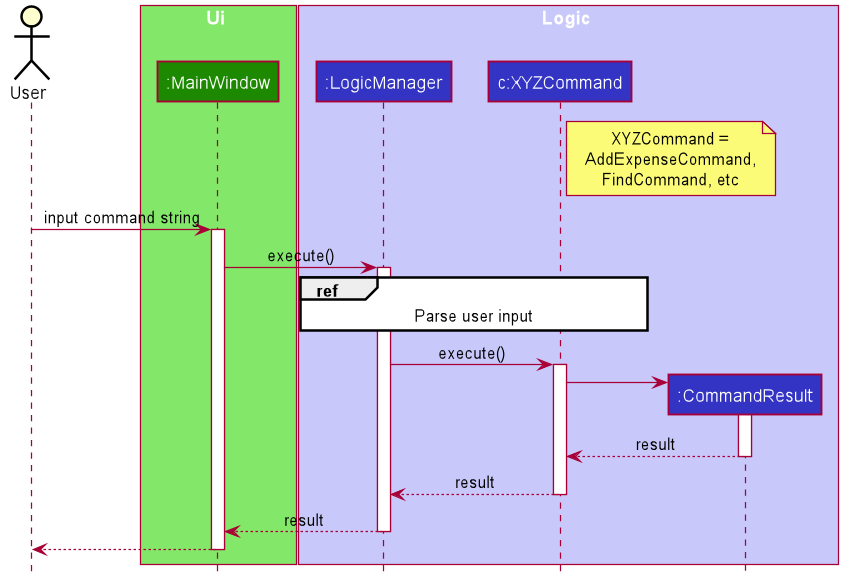
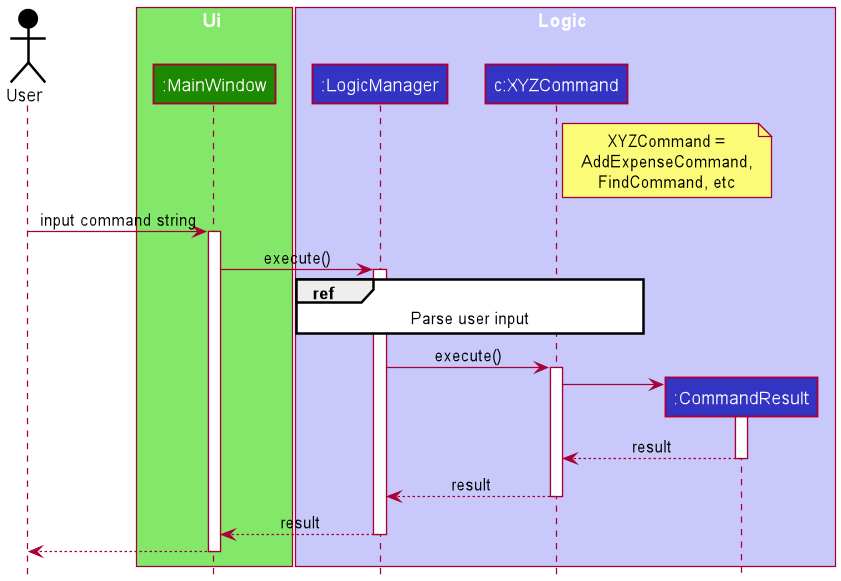
Update developer guide (#318)
* Standardise automatic tab switching messages

* Add list of commands which programmatically switch tabs

* Make actor black

* Update tab switching and model

* Add command history

* Add data integrity safeguards

* Add newline at EOF

* Update design considerations

* Update UiClassDiagram

diff --git a/docs/DeveloperGuide.md b/docs/DeveloperGuide.md
@@ -52,9 +52,21 @@ The sections below give more details of each component.
 **API** :
 [`Ui.java`](https://github.com/AY2021S1-CS2103T-W16-3/tp/blob/master/src/main/java/ay2021s1_cs2103_w16_3/finesse/ui/Ui.java)
 
-The UI consists of a `MainWindow` that is made up of parts e.g.`CommandBox`, `ResultDisplay`, `TransactionListPanel`, `StatusBarFooter` etc. All of these, including `MainWindow`, inherit from the abstract `UiPart` class.
+The UI consists of a `MainWindow` that is made up of parts e.g.`CommandBox`, `ResultDisplay`, `TransactionListPanel`, `OverviewTabPane` etc.
+All of these, including `MainWindow`, inherit from the abstract `UiPart` class.
 
-The `UI` component uses the JavaFx UI framework. The layout of these UI parts is defined in matching `.fxml` files that are in the `src/main/resources/view` folder. For example, the layout of [`MainWindow`](https://github.com/AY2021S1-CS2103T-W16-3/tp/blob/master/src/main/java/ay2021s1_cs2103_w16_3/finesse/ui/MainWindow.java) is specified in [`MainWindow.fxml`](https://github.com/AY2021S1-CS2103T-W16-3/tp/blob/master/src/main/resources/view/MainWindow.fxml).
+There are 5 tab panes which are contained within `MainWindow`:
+* `OverviewTabPane` - Displays an overview of the most recent transactions (both incomes and expenses) along with the savings goals.
+  * Contains `TransactionListPanel` and `SavingsGoalPanel`.
+* `IncomeTabPane` - Displays a list of incomes along with bookmark incomes.
+  * Contains `IncomePanel` and `BookmarkIncomePanel`.
+* `ExpenseTabPane` - Displays a list of expenses along with bookmark expenses.
+  * Contains `ExpensePanel` and `BookmarkExpensePanel`.
+* `AnalyticsTabPane` - Displays statistics.
+* `UserGuideTabPane` - Displays the user guide.
+
+The `UI` component uses the JavaFx UI framework. The layout of these UI parts is defined in matching `.fxml` files that are in the `src/main/resources/view` folder.
+For example, the layout of [`MainWindow`](https://github.com/AY2021S1-CS2103T-W16-3/tp/blob/master/src/main/java/ay2021s1_cs2103_w16_3/finesse/ui/MainWindow.java) is specified in [`MainWindow.fxml`](https://github.com/AY2021S1-CS2103T-W16-3/tp/blob/master/src/main/resources/view/MainWindow.fxml).
 
 The `UI` component:
 
@@ -90,6 +102,7 @@ Below is the Sequence Diagram for interactions within the `Logic` component for 
 The `Model`:
 
 * stores a `UserPref` object that represents the user’s preferences.
+* stores a `CommandHistory` object that keeps track of the 50 most recent commands entered.
 * stores the finance tracker data in the following components:
     * a `TransactionList` containing `Transaction`s.
     * a `BookmarkExpenseList` and `BookmarkIncomeList`, each containing `BookmarkTransaction`s.
@@ -175,6 +188,50 @@ Classes used by multiple components are in the `ay2021s1_cs2103_w16_3.finesse.co
 ## **Implementation**
 
 This section describes some noteworthy details on how certain features are implemented.
+
+### Tabs
+
+#### Programmatically switch selected tab
+
+##### Overview
+
+Fine$$e supports the ability to switch tabs programmatically.
+The following is a list of commands that utilise this ability:
+* `help` - Opens the [user guide](UserGuide.md).
+* `tab` - Switches to the tab corresponding to the index entered by the user.
+* `add-expense` - Adds an expense to the finance tracker and switches to the Expenses tab.
+* `ls-expense` - Shows a list of all expenses in the finance tracker by switching to the Expenses tab.
+* `add-income` - Adds an income to the finance tracker and switches to the Incomes tab.
+* `ls-income` - Shows a list of all incomes in the finance tracker by switching to the Incomes tab.
+* `add-bookmark-expense` - Adds a bookmark expense to the finance tracker and switches to the Expenses tab.
+* `add-bookmark-income` - Adds a bookmark income to the finance tracker and switches to the Incomes tab.
+
+##### Implementation of feature
+
+The ability to programmatically update the selected tab is implemented via `CommandResult`.
+Upon the successful execution of a command, a `CommandResult` is generated and passed back to `MainWindow`.
+This `CommandResult` contains the necessary information which the `MainWindow` needs to update the user interface, such as:
+* The feedback to be displayed to the user;
+* Whether to exit the application; and
+* Whether to programmatically switch to a different tab in the user interface.
+
+`MainWindow` will then select the tab specified in `CommandResult` as the active tab if applicable.
+
+##### Switching tabs
+
+The following sequence diagram shows how the `CommandResult` is created and returned upon the execution of any command.
+If the command in question is one of those listed above, the UI will switch to the specified tab.
+
+![Interactions inside the Logic Component when executing commands](images/CommandResultSequenceDiagram.png)
+
+##### Design considerations
+
+The alternative implementations considered, as well as the rationale behind our current implementation are as follows:
+
+| Alternative considered  | Current implementation and rationale   |
+| ----------- | -------------------------   |
+| Add a method in `MainWindow` which can be called to programmatically switch tabs in the user interface upon execution of the command. | Encapsulate the tab switching information within `CommandResult` to prevent tight coupling of `Logic` and `UI` components. |
+
 
 ### Transactions
 
@@ -352,26 +409,6 @@ The alternative implementations considered, as well as the rationale behind our 
 | Having separate command parsers for each tab in which the find command can be input, e.g. `FindTransactionCommandParser`, `FindExpenseCommandParser` and `FindIncomeCommandParser`, which return a `FindTransactionCommand`, a `FindExpenseCommand` and a `FindIncomeCommand` respectively. | Use only one `FindCommandParser`, which returns a `FindCommand` that is then further split into the respective `FindXYZCommand`. This is because the parsing for the input is similar same regardless of the tab the user is on.          |
 | Have `FindCommandParser` take in an `Index` corresponding to the parameter being searched. | Make the input of similar format to that of adding transactions, so that the input can be parsed into an `ArgumentMultimap` which is then used generate the relevant `Predicate`s. This is so that multiple search parameters can be employed in one command. |
 
-#### Programmatically switch selected tab
-
-Several of the expense/income-specific commands update the list of transactions displayed in a particular tab.
-Examples of these include the `add-expense` and `add-income` commands.
-As such, on the execution of such commands, the UI has to switch to the affected tab to display the result of the command execution.
-
-The ability to programmatically update the selected tab is implemented via `CommandResult`.
-Upon the successful execution of a command, a `CommandResult` is generated and passed back to `MainWindow`.
-This `CommandResult` contains the necessary information which the `MainWindow` needs to update the user interface, such as:
-* The feedback to be displayed to the user;
-* Whether to exit the application; and
-* Whether to programmatically switch to a different tab in the user interface.
-
-![Interactions inside the Logic Component when executing commands](images/CommandResultSequenceDiagram.png)
-
-Alternatives considered:
-
-* Add a method in `MainWindow` which can be called to programmatically switch tabs in the user interface upon execution of the command.
-  This was decided against as it would result in a much tighter coupling of `Logic` and `UI` components.
-
 ### Budgeting
 ##### Overview
 
@@ -384,7 +421,7 @@ The class diagram below depicts the components involved in the budget feature.
 
 ##### Implementation of feature
 
-The find transactions feature is implemented via `MonthlyBudget`, which contains the following fields:
+The budgeting feature is implemented via `MonthlyBudget`, which contains the following fields:
 
 * Two `ObjectProperty<Amount>` fields for `monthlyExpenseLimit` and `monthlySavingsGoal`.
 * Two `ObjectProperty<CalculatedAmount>` fields for `remainingBudget` and `currentSavings`.
@@ -493,6 +530,103 @@ When the constructor for `AnalyticsTabPane` is called:
 ##### Design considerations
 
 * An external library, [Data2Viz](https://data2viz.io/), was considered, rather than *JavaFX Charts*, but the former was rejected due to difficulty in implementation.
+
+### Command history
+
+##### Overview
+
+In order to fully replicate the Command Line Interface (CLI) experience, Fine$$e features the ability to navigate through the last 50 commands entered.
+This is done by pressing the ↑ or ↓ arrow keys on the keyboard while focused on the command input box.
+
+The class diagram below depicts the components involved in the command history feature.
+
+![Class diagram for command history feature](images/CommandHistoryClassDiagram.png)
+
+##### Implementation of feature
+
+The command history feature is implemented via `CommandHistory`.
+Whenever the user inputs a command, the command is added to the `CommandHistory` so as to be tracked.
+Note that for this section on the command history, all mentions of 'command' refer to the user input, and not the various `Command`s present in the codebase.
+
+`CommandHistory` is backed by an `EvictingStack`, a data structure that works similarly to a normal Last In First Out (LIFO) stack.
+However, when the `EvictingStack` is full, the bottom-most element of the stack is removed (or in other words, evicted).
+This behaviour is achieved by maintaining a doubly-linked list made out of `Node`s.
+
+Each `Node` keeps track of the following information:
+* Its value, which corresponds to a command in this context.
+* A reference to the next `Node` in the linked list.
+* A reference to the previous `Node` in the linked list.
+
+For the `EvictingStack`, it keeps track of not only the `Node` at the top of the stack, but also the `Node` at the bottom.
+This is so that the bottom-most element can be removed in Θ(1) time.
+Due to the linked list being doubly-linked, we can then also find the next bottom-most element of the `EvictingStack` in constant time.
+
+In addition, `CommandHistory` maintains an internal navigation state that gets reset whenever a new command is entered.
+This internal navigation state keeps track of the current position while traversing the command history using the ↑ and ↓ arrow keys, much like a typical CLI.
+
+##### Navigating the command history
+
+When the ↑ arrow key is pressed, there are two possible scenarios:
+1. The current command in the navigation state is the earliest tracked command.
+  * Nothing happens.
+1. The current command in the navigation state is not the earliest tracked command.
+  * The command immediately preceding the current command is retrieved.
+
+The following activity diagram summarizes what happens when the user presses the ↑ arrow key.
+
+![Activity diagram for pressing the ↑ arrow key](images/CommandHistoryUpActivityDiagram.png)
+
+Similarly, when the ↓ arrow key is pressed, there are two possible scenarios:
+1. The current command in the navigation state is the latest tracked command.
+  * The command input box is cleared.
+1. The current command in the navigation state is not the latest tracked command.
+  * The command immediately succeeding the current command is retrieved.
+
+The following activity diagram summarizes what happens when the user presses the ↓ arrow key.
+
+![Activity diagram for pressing the ↓ arrow key](images/CommandHistoryDownActivityDiagram.png)
+
+##### Design considerations
+
+The alternative implementations considered, as well as the rationale behind our current implementation are as follows:
+
+| Alternative considered  | Current implementation and rationale   |
+| ----------- | -------------------------   |
+| Use Java's in-built `Stack` class in `CommandHistory`. | Use a custom `EvictingStack` instead, so as to prevent potentially running out of memory if an extremely large number of commands are entered. |
+
+### Data integrity safeguards
+
+##### Overview
+
+Since Fine$$e is an offline desktop application, it is reliant on the system time to perform date validations.
+This makes it vulnerable to changes in the system time while it is running.
+In particular, if the system time were to be changed to an earlier time, the existing data might get corrupted.
+
+##### Implementation of feature
+
+To safeguard against potential loss or corruption of data, Fine$$e tracks the system time across actions via `Timekeeper`, which keeps track of the last observed time.
+Upon launching the application, `Timekeeper` is instantiated with the current system time.
+Subsequently, every time a command is entered by the user, the last observed time in `Timekeeper` is validated against the current system time.
+
+If the current system time is earlier than the last observed time, Fine\$\$e disables itself to prevent data loss.
+A prompt is shown to the user to ensure that their system time is correct before restarting Fine$$e in order to continue using the application.
+Upon relaunching the application, the data file is validated by `JsonFinanceTrackerParser`.
+
+Should the current system time be later than or equals to the last observed time, the last observed time in `Timekeeper` is updated to the current system time.
+
+##### Validating the time whenever a command is executed
+
+The following sequence diagram shows what happens when a command is entered by the user.
+
+![Sequence diagram for Timekeeper](images/TimekeeperSequenceDiagram.png)
+
+##### Design considerations
+
+The alternative implementations considered, as well as the rationale behind our current implementation are as follows:
+
+| Alternative considered  | Current implementation and rationale   |
+| ----------- | -------------------------   |
+| Query and use the time from some remote server rather than the system time. | Keep track of the last observed system time so that there is no need for an internet connection to use the application. |
 
 --------------------------------------------------------------------------------------------------------------------
 

diff --git a/docs/UserGuide.md b/docs/UserGuide.md
@@ -265,6 +265,8 @@ To help you manage your finances, Fine\$\$e records the following information ab
 
 Adds an expense to the finance tracker.
 
+> :information_source: &nbsp; After executing this command, the UI will automatically switch to the [Expenses tab](#223-expenses-tab).
+
 Format: `add-expense t/TITLE a/AMOUNT [d/DATE] [c/CATEGORY...]`
 
 * `DATE` is optional; if `DATE` is not given, the current date is used.
@@ -286,8 +288,6 @@ Expected Outcome:
 New expense added: Bubble Tea Amount: $5.00 Date: 03/10/2020 Categories: [Food & Beverage]
 ```
 Adds a new expense titled `Bubble Tea`, with amount `$5.00`, date `03/10/2020`, and a single category `Food & Beverage`.
-
-> :information_source: &nbsp; After executing this command, the UI will automatically switch to the [Expenses tab](#223-expenses-tab).
 
 #### 4.3.2 Edit Expense: `edit`
 
@@ -345,6 +345,8 @@ Deletes the third expense in the currently displayed expenses list.
 
 Shows a list of all expenses in the finance tracker.
 This effectively resets any current filtering of the expenses list, such as those made by `find`.
+
+> :information_source: &nbsp; After executing this command, the UI will automatically switch to the [Expenses tab](#223-expenses-tab).
 
 Format: `ls-expense`
 
@@ -422,6 +424,8 @@ To help you manage your finances, Fine\$\$e records the following information ab
 
 Adds an income to the finance tracker.
 
+> :information_source: &nbsp; After executing this command, the UI will automatically switch to the [Incomes tab](#222-incomes-tab).
+
 Format: `add-income t/TITLE a/AMOUNT d/DATE [c/CATEGORY...]`
 
 * `DATE` is optional; if `DATE` is not given, the current date is used.
@@ -443,8 +447,6 @@ Expected Outcome:
 New income added: Shopee Internship Amount: $560.00 Date: 03/10/2020 Categories: [Internship]
 ```
 Adds a new income titled `Shopee Internship`, with amount `$560.00`, date `03/10/2020`, and a single category `Internship`.
-
-> :information_source: &nbsp; After executing this command, the UI will automatically switch to the [Incomes tab](#222-incomes-tab).
 
 #### 4.4.2 Edit Income: `edit`
 
@@ -502,6 +504,8 @@ Deletes the second income in the currently displayed incomes list.
 
 Shows a list of all the incomes in the finance tracker.
 This effectively resets any current filtering of the incomes list, such as those made by `find`.
+
+> :information_source: &nbsp; After executing this command, the UI will automatically switch to the [Incomes tab](#222-incomes-tab).
 
 Format: `ls-income`
 
@@ -582,6 +586,8 @@ Bookmark Expenses List Panel in the Expenses Tab
 #### 4.5.1 Add Bookmark Expense: `add-bookmark-expense`
 
 Adds a bookmark expense to the finance tracker.
+
+> :information_source: &nbsp; After executing this command, the UI will automatically switch to the [Expenses tab](#223-expenses-tab).
 
 Format: `add-bookmark-expense t/TITLE a/AMOUNT [c/CATEGORY...]`
 
@@ -729,6 +735,8 @@ Bookmark Incomes List Panel in the Incomes tab
 
 Adds a bookmark income to the finance tracker.
 
+> :information_source: &nbsp; After executing this command, the UI will automatically switch to the [Incomes tab](#222-incomes-tab).
+
 Format: `add-bookmark-income t/TITLE a/AMOUNT [c/CATEGORY...]`
 
 Shortcut: `addbi t/TITLE a/AMOUNT [c/CATEGORY...]`
@@ -866,6 +874,8 @@ Once the expense limit is set, it will be visible on the Overview tab along with
 
 Sets the monthly expense limit in the finance tracker.
 
+> :information_source: &nbsp; After executing this command, the UI will automatically switch to the [Overview tab](#221-overview-tab).
+
 Format: `set-expense-limit a/AMOUNT`
 
 Shortcut: `setel a/AMOUNT`
@@ -884,8 +894,6 @@ New monthly expense limit set: $400.00
 ```
 Sets the monthly expense limit in the finance tracker to be `$400.00`.
 
-> :information_source: &nbsp; After executing this command, the UI will automatically switch to the [Overview tab](#221-overview-tab).
-
 ### 4.8 Savings Goal
 
 Want to save up for the new PlayStation 5 but can't seem to no matter what? Fine$$e has you covered!
@@ -895,6 +903,8 @@ Once the savings goal is set, it will be visible on the Overview tab along with 
 #### 4.8.1 Set Savings Goal: `set-savings-goal`
 
 Sets the monthly savings goal in the finance tracker.
+
+> :information_source: &nbsp; After executing this command, the UI will automatically switch to the [Overview tab](#221-overview-tab).
 
 Format: `set-savings-goal a/AMOUNT`
 
@@ -913,8 +923,6 @@ Expected Outcome:
 New monthly savings goal set: $50.00
 ```
 Sets the monthly savings goal in the finance tracker to be `$50.00`.
-
-> :information_source: &nbsp; After executing this command, the UI will automatically switch to the [Overview tab](#221-overview-tab).
 
 ### 4.9 Analytics
 
